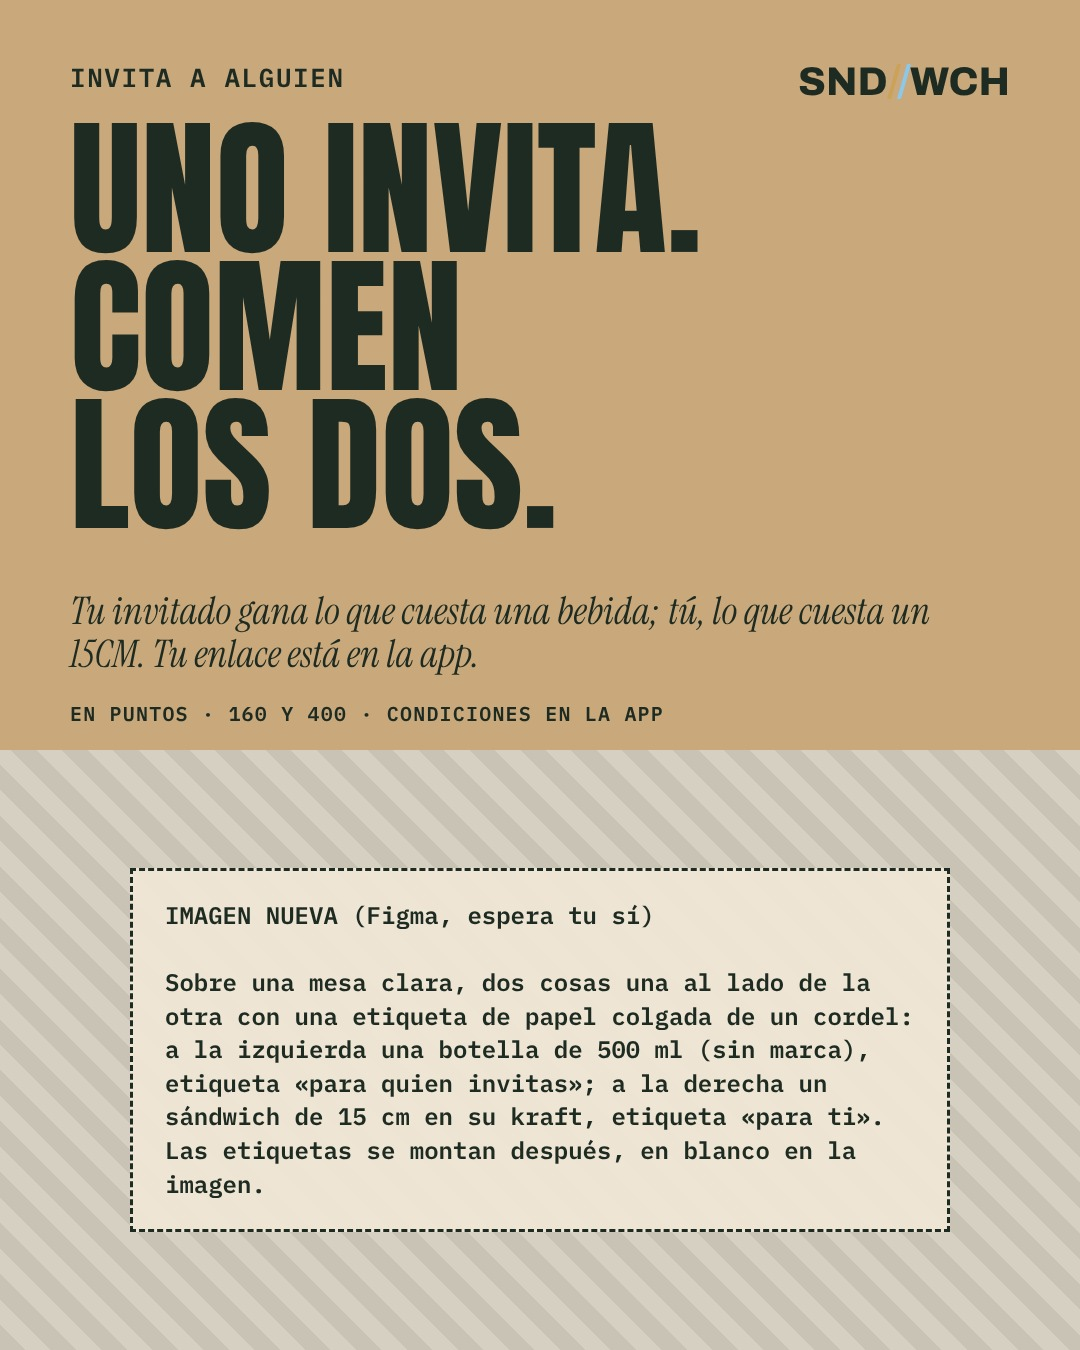
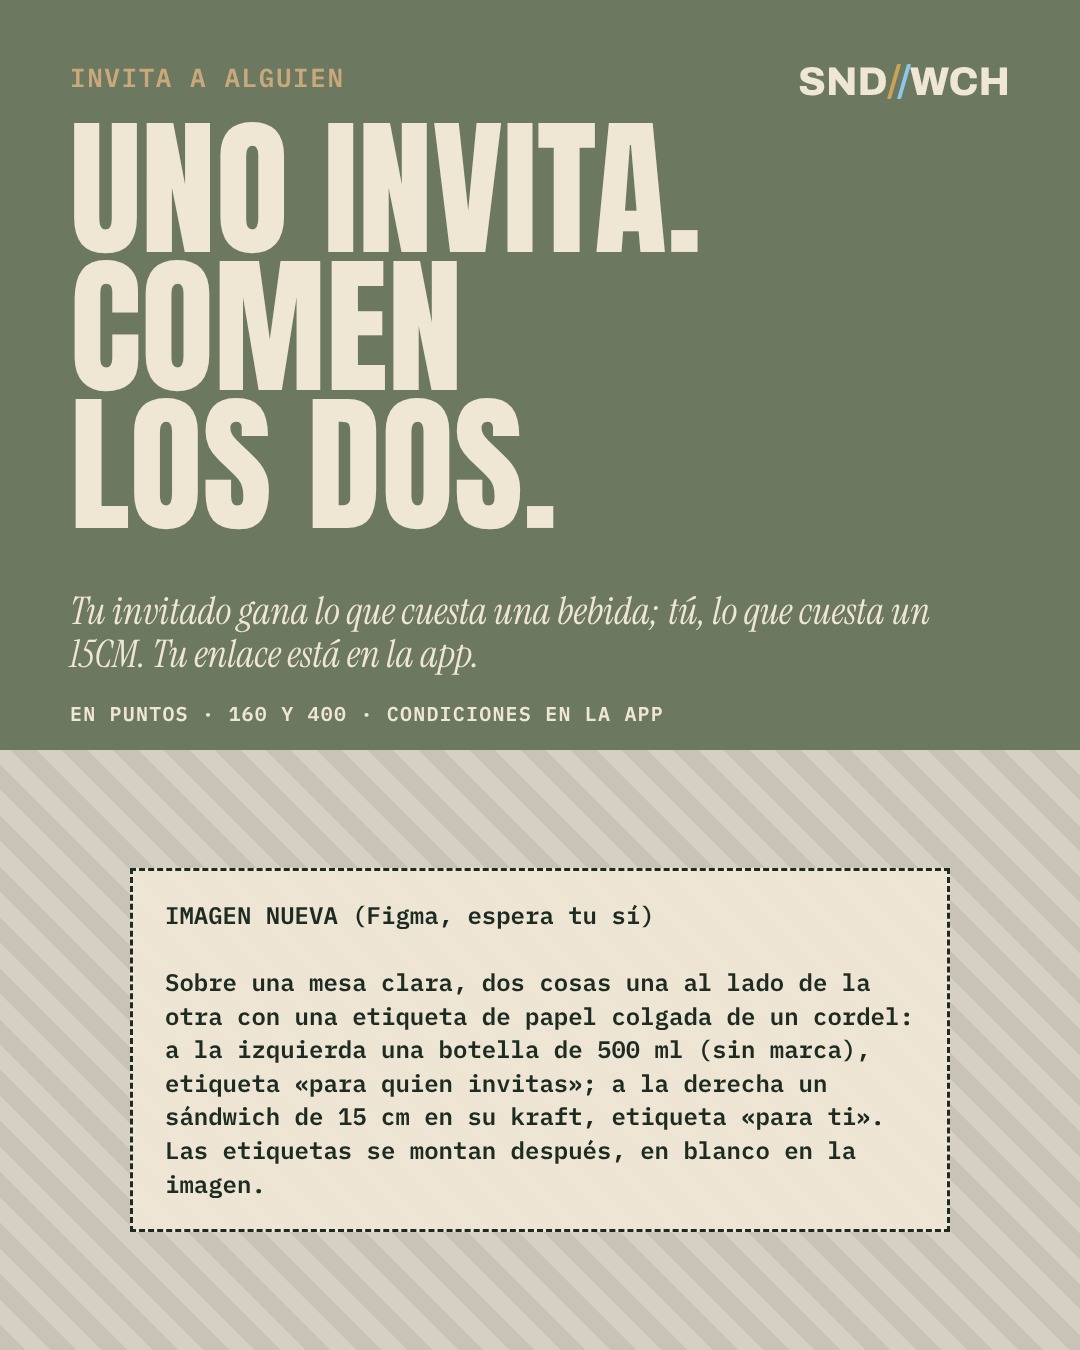
Feed: 6 piezas finales de las semanas del 16 y del 23 con imágenes nuevas de Figma
Claude-Session: https://claude.ai/code/session_01As57vo2kdCVAYbjNQSwwFU

diff --git a/docs/marketing/semanas/2026-11-16/RESUMEN.md b/docs/marketing/semanas/2026-11-16/RESUMEN.md
@@ -33,3 +33,5 @@ No hay encargos para la semana en curso (9 al 15). Los 14 del 3 al 8 se dieron p
 1. Las 3 piezas: van, cambian o se cortan.
 2. **3 imágenes nuevas en Figma**, una por pieza, con los créditos de tu plan.
 3. Sigue pendiente, del hilo de marketing: 1 imagen para rehacer la lámina HOAGIE de «Cómo se dice» con los embutidos nuevos.
+
+**Producido (2026-11-16, Ezra: «si a todo»):** piezas finales en `final-*.jpg` (con `FINAL=1` el script monta las imágenes de `fotos/`). Imágenes de Figma: 1 por pieza; en la semana del 23 se rehicieron la oficina y la de invita porque la primera versión traía pepino y un sándwich que no está en la carta. Nada publicado.

diff --git a/docs/marketing/semanas/2026-11-23/RESUMEN.md b/docs/marketing/semanas/2026-11-23/RESUMEN.md
@@ -24,3 +24,5 @@ automáticos (esperan el dato del domingo 23 de `pctClientesDeLaSemanaConAvisos`
 (`?src=ig-historia-referidos`).
 
 **Necesita el sí de Ezra:** las 3 imágenes nuevas en Figma (prompts en `PROMPTS.md`), y publicar.
+
+**Producido (2026-11-16, Ezra: «si a todo»):** piezas finales en `final-*.jpg` (con `FINAL=1` el script monta las imágenes de `fotos/`). Imágenes de Figma: 1 por pieza; en la semana del 23 se rehicieron la oficina y la de invita porque la primera versión traía pepino y un sándwich que no está en la carta. Nada publicado.
